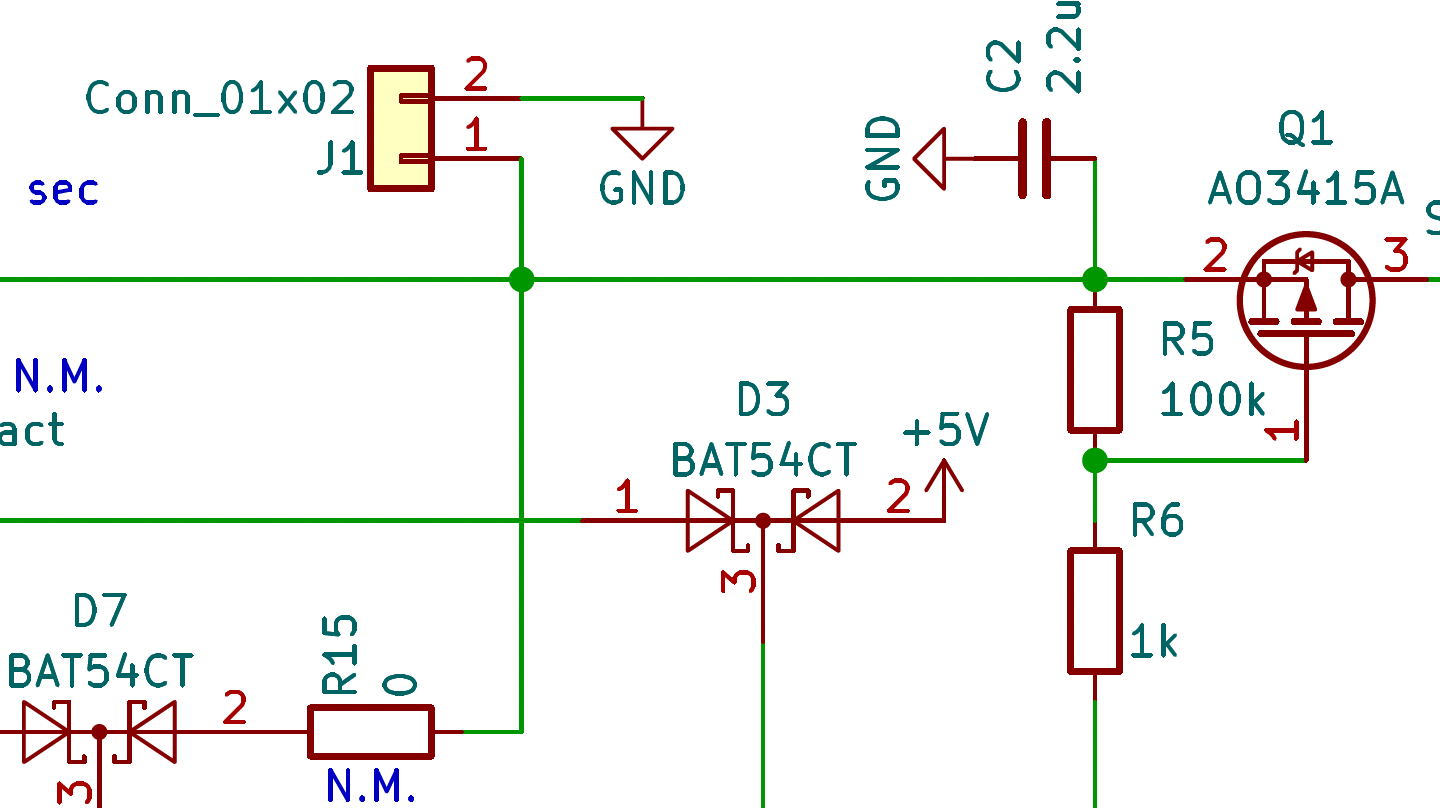
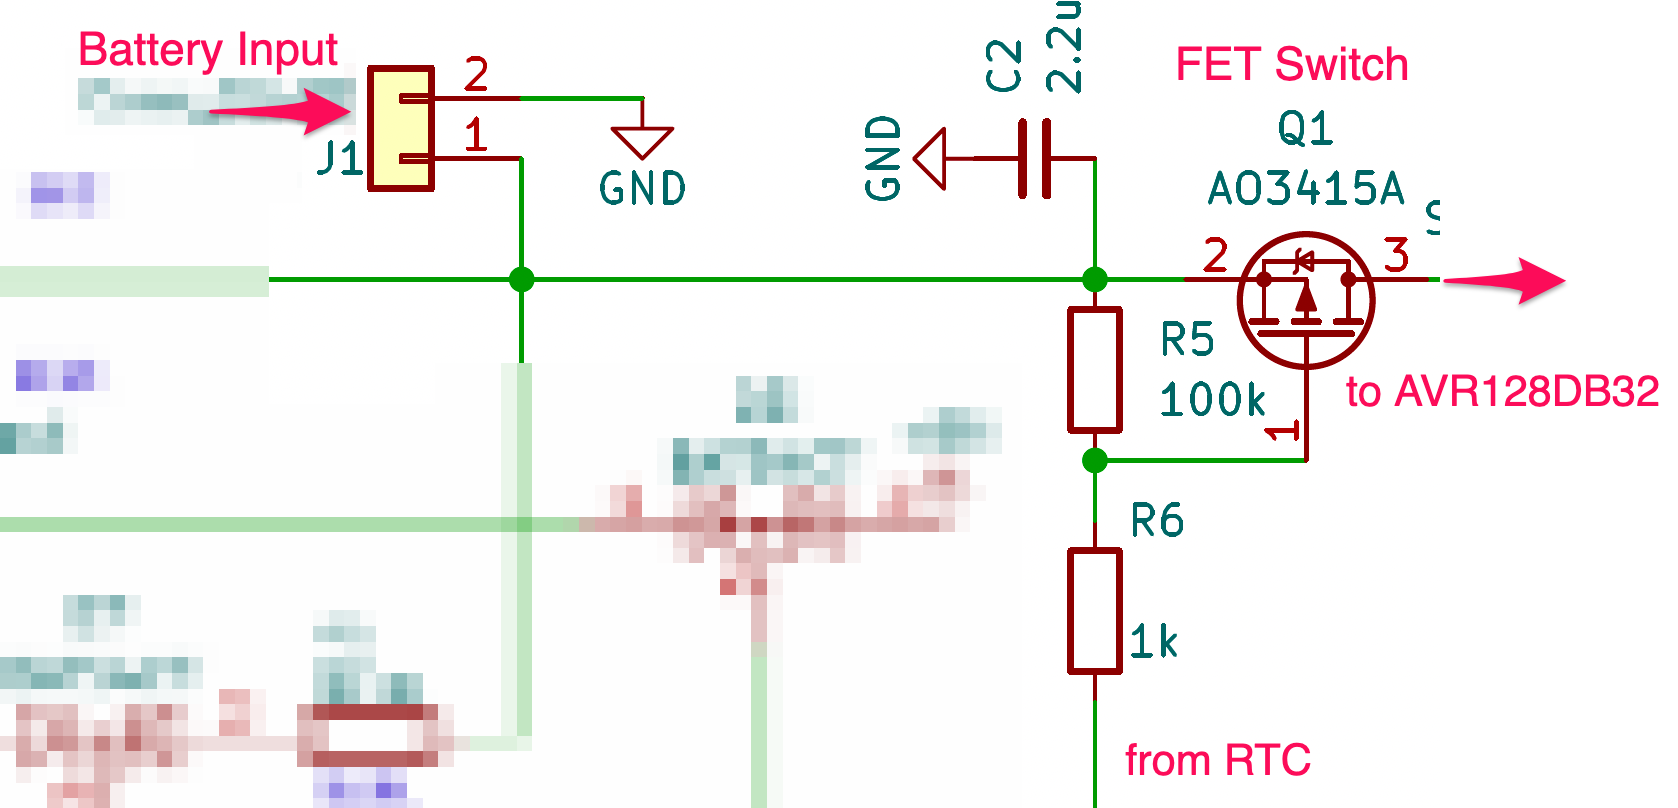
Minor changes to the text; Improvement the image p02_J1

diff --git a/README.md b/README.md
@@ -23,36 +23,37 @@ https://github.com/SpenceKonde/DxCore/blob/master/README.md
   <p float="left">
     <img src="image/t03_Serial.png" height="200" /> &nbsp;&nbsp; <img src="image/t04_UPDI.png" height="200" />
   </p>
-- リアルタイムクロック(RTC) <a href="https://akizukidenshi.com/goodsaffix/rx-8035_am.pdf" target="_blank" rel="noopener noreferrer"> RX8035 </a>搭載。I2Cでプログラム可能です。
+- リアルタイムクロック(RTC)[RX8035](https://akizukidenshi.com/goodsaffix/rx-8035_am.pdf)搭載。I2Cでプログラム可能です。
   <br>
-  RTCのバックアップに超小型Li２次電池 <a href="https://akizukidenshi.com/catalog/g/g117518/" target="_blank" rel="noopener noreferrer"> MS621 </a>を搭載可能。電源が供給されている時に充電されます。
+  RTCのバックアップに超小型Li２次電池[MS621](https://akizukidenshi.com/catalog/g/g117518/) を搭載可能。電源が供給されている時に充電されます。
+- マイクロSDカードコネクター搭載、電源はLDO[AP7333](https://akizukidenshi.com/goodsaffix/ap7333.pdf)で3.3Vを供給しています。I/Fは、Port Cを使ったSPIを使用しています（ SPI.swap(SPI1_SWAP_DEFAULT); を設定）。AVR***DB32シリーズのPort Cにはレベルシフタが内蔵されており、VDDIO2に3.3Vを供給することで、3.3VのロジックレベルでのSPI通信を可能です。
+  https://github.com/SpenceKonde/DxCore/tree/master/megaavr/libraries/SPI
 - マイコンの電源をRTCからON/OFF制御可能です。ON/OFFはFETスイッチで行うので、OFFの時マイコンの消費電力は0です！
-- 電源入力は３系統あります。全てダイオードORされています。<br>
+- 電源入力は３系統あります。全てダイオードORされています。マイクロSDカードを使うには3.3V以上の電源電圧が必要です。
   <p float="left">
     <img src="image/p05_power_supply_diagram.png" height="300" /> 
   </p>
-  - J1 : 電源電圧は2.6Vから5.5Vです。Liバッテリー×1セルで動作可能。J1からの電源はRTCでON/OFF制御可能です。また、POWERボタンを長押しすると電源をONするようにプログラム可能です。サンプルプログラムを参照してください。2.5Vから3VでSDカードを使いたい場合はJP5をカットし、<a href="https://akizukidenshi.com/catalog/g/g116055/" target="_blank" rel="noopener noreferrer"> buck-boost_converter </a> を背面に実装してください。<br>
+  - J1 : 電源電圧は2.6Vから5.5Vです。Liバッテリー×1セルで動作可能。J1からの電源はRTCでON/OFF制御可能です。また、POWERボタンを長押しすると電源をONするようにプログラム可能です。サンプルプログラムを参照してください。2.5Vから3VでSDカードを使いたい場合は、裏面JP5をカットし、[buck-boost_converter](https://akizukidenshi.com/catalog/g/g116055/) を裏面に実装してください。<br>
     <p float="left">
       <img src="image/p01_J1.png" height="200" /> &nbsp;&nbsp; <img src="image/p02_J1.png" height="200" />
     </p>
-    <br>
-  - Serial(J2) : 電源電圧は2.6Vから5.5Vです。マイコンに直結されています。<br>
+
+  - Serial(J2) : 電源電圧は2.6Vから5.5Vです。マイコンに接続されています。<br>
     <p float="left">
       <img src="image/p04_Serial.png" height="200" />
     </p>
-    <br>
-  - VIN : 電源電圧は2.6Vから5.5Vです。初期状態ではU5の1ピンと2ピンにR14が実装されています。これを外してSOT23タイプのLDO、AP7375を実装すれば、クルマの12Vバッテリーでの動作など(Max 45V)も可能です（消費電力注意）。<br>
+
+  - VIN : 電源電圧は2.6Vから5.5Vです。初期状態ではU5の1ピンと2ピンにR14が実装されています。これを外してSOT23タイプのLDO[AP7375](https://akizukidenshi.com/goodsaffix/ap7375.pdf)を実装することでクルマの12Vバッテリーでの動作などの電圧(Max 45V)も使用可能になります（ただし消費電力に注意）。<br>
     <p float="left">
       <img src="image/p03_VIN.png" height="200" />
     </p>
-- マイクロSDカードコネクター搭載（マイクロSDカードを使うには3.3V以上の電源電圧が必要です）。マイクロSDカードI/Fは、Port Cを使ったSPI通信を使用しています（ SPI.swap(SPI1_SWAP_DEFAULT); を設定）。AVR***DB32シリーズのPort Cにはレベルシフタが内蔵されており、VDDIO2にはLDO AP7333で3.3Vを供給しているのでSDカード用3.3VのロジックレベルでのSPI通信ができます。
-  https://github.com/SpenceKonde/DxCore/tree/master/megaavr/libraries/SPI
+
 - ボードサイズ 95mm x 18.2mm、付属のピンヘッダをハンダ付けすればブレッドボードで使用できるスリム設計です。
 
 ## スペック
 - プログラムメモリは128KB、RAMは16KB、内蔵のクロックは24MHzです。
 - 12ビットのADC、10ビットのDAC、OPアンプ、ロジック回路を装備しています。
-- 詳細は<a href="https://ww1.microchip.com/downloads/en/DeviceDoc/AVR128DB28-32-48-64-DataSheet-DS40002247A.pdf" target="_blank" rel="noopener noreferrer"> datasheet </a> 参照。
+- 詳細は[Datasheet](https://ww1.microchip.com/downloads/en/DeviceDoc/AVR128DB28-32-48-64-DataSheet-DS40002247A.pdf) 参照。
 
 ## 使用例
 ![image](image/a03.JPG) 
